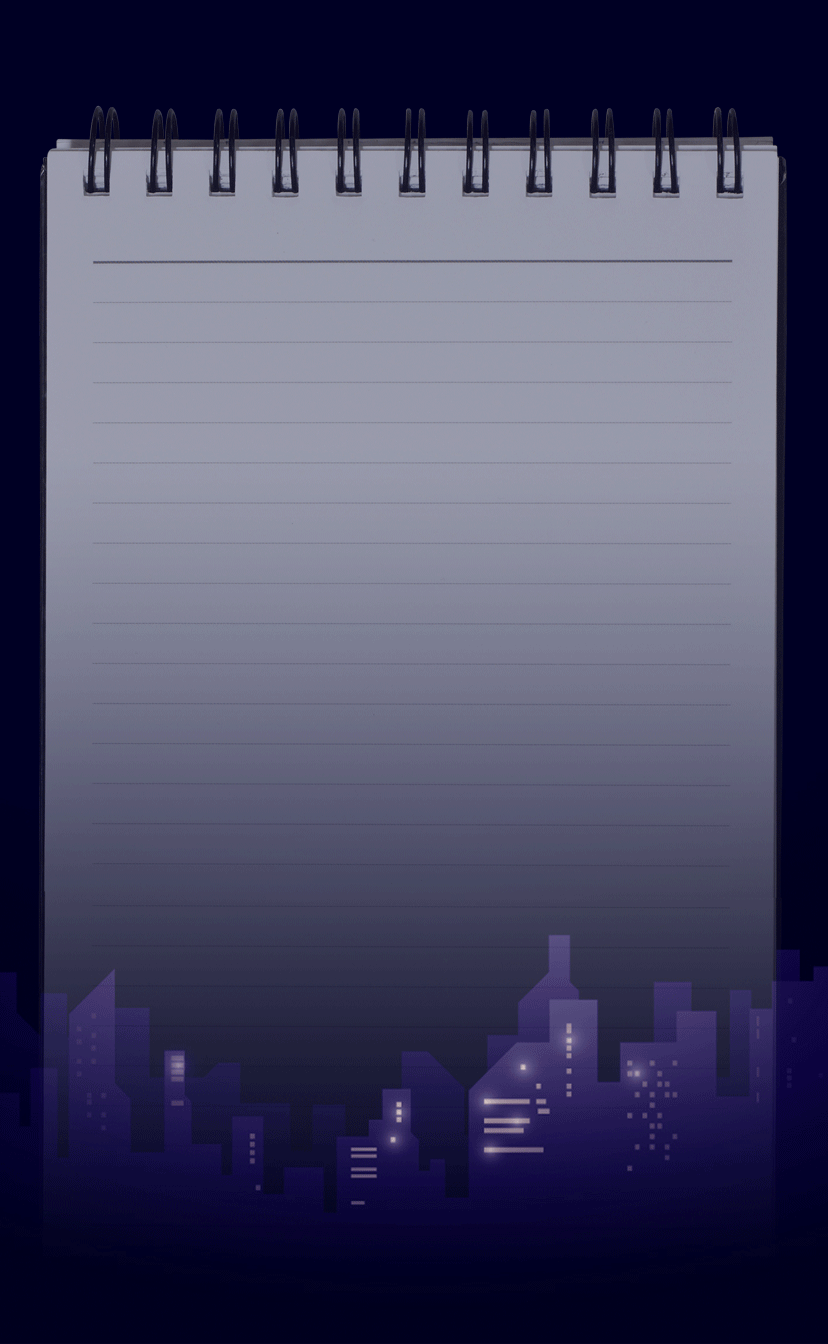
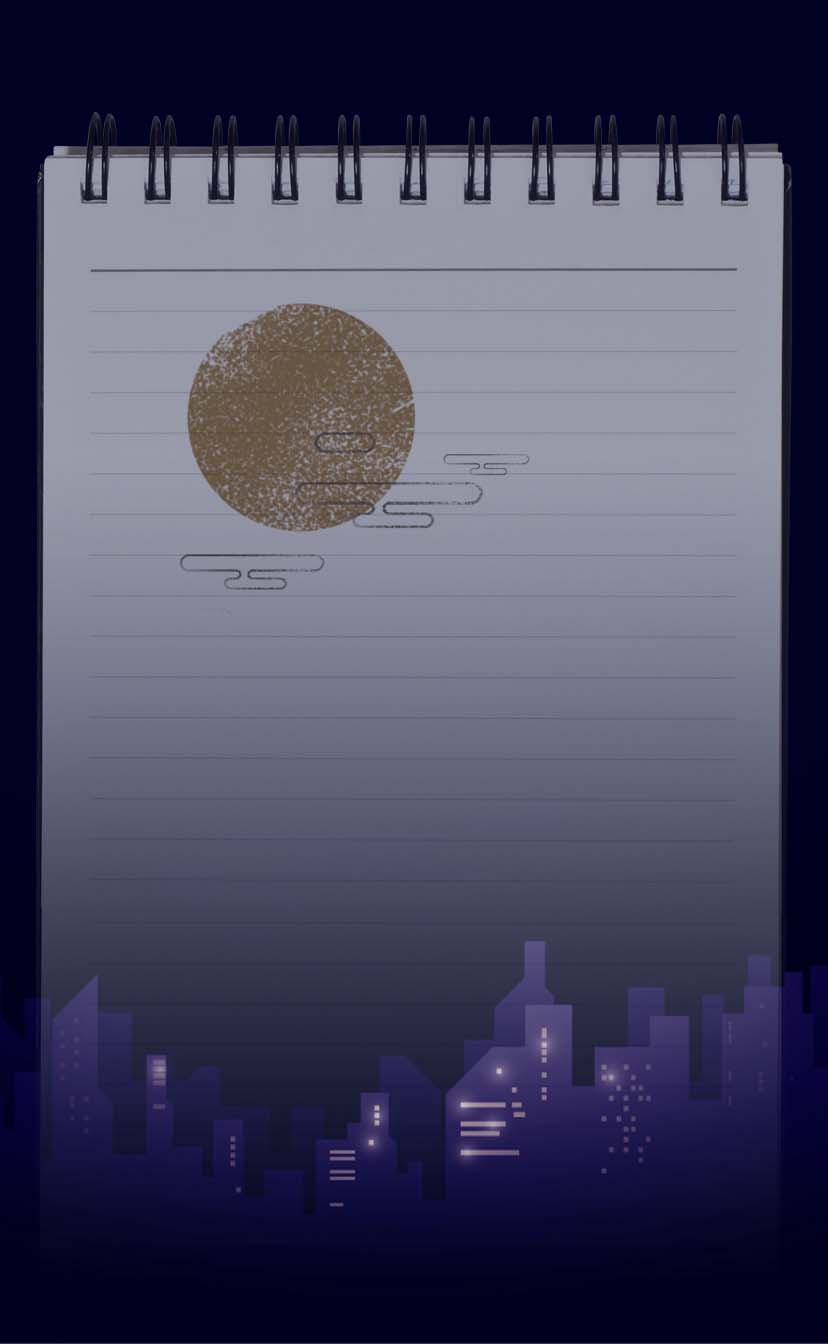
调整样式

diff --git a/public/style.css b/public/style.css
@@ -16,6 +16,7 @@
 body {
   height: 100%;
   width: 100%;
+  color: white;
 }
 
 html {
@@ -61,7 +62,7 @@ html {
   height: 100%;
   width: 100%;
   background-color: purple;
-  background: url(./images/03.png?1) no-repeat;
+  background: url(./images/04.png?1) no-repeat;
   background-size: 100% 100%;
   top: 0;
   position: absolute;
@@ -71,7 +72,7 @@ html {
   height: 50%;
   margin-left: 15px;
   margin-right: 15px;
-  background: url(./images/nightmoon.png?1) no-repeat;
+  /* background: url(./images/nightmoon.png?1) no-repeat; */
   background-size: 100% 100%;
 }
 
@@ -99,6 +100,7 @@ html {
 
 .footer-contianer {
   text-align: center;
+  color: white;
 }
 
 h5 img {
@@ -127,13 +129,13 @@ span {
 
 .showwordempty {
   width: 100%;
-  height: 50%;
+  height: 70%;
   background-color: hsla(0%, 0%, 0%, 0);
 }
 
 .showwords {
   width: 50%;
-  height: 50%;
+  height: 30%;
   float: right;
   text-align: left;
   vertical-align: middle;
@@ -160,6 +162,7 @@ p {
 .shareTips {
   text-align: center;
   margin-top: 10%;
+  color: white;
 }
 
 .danmuArea {
